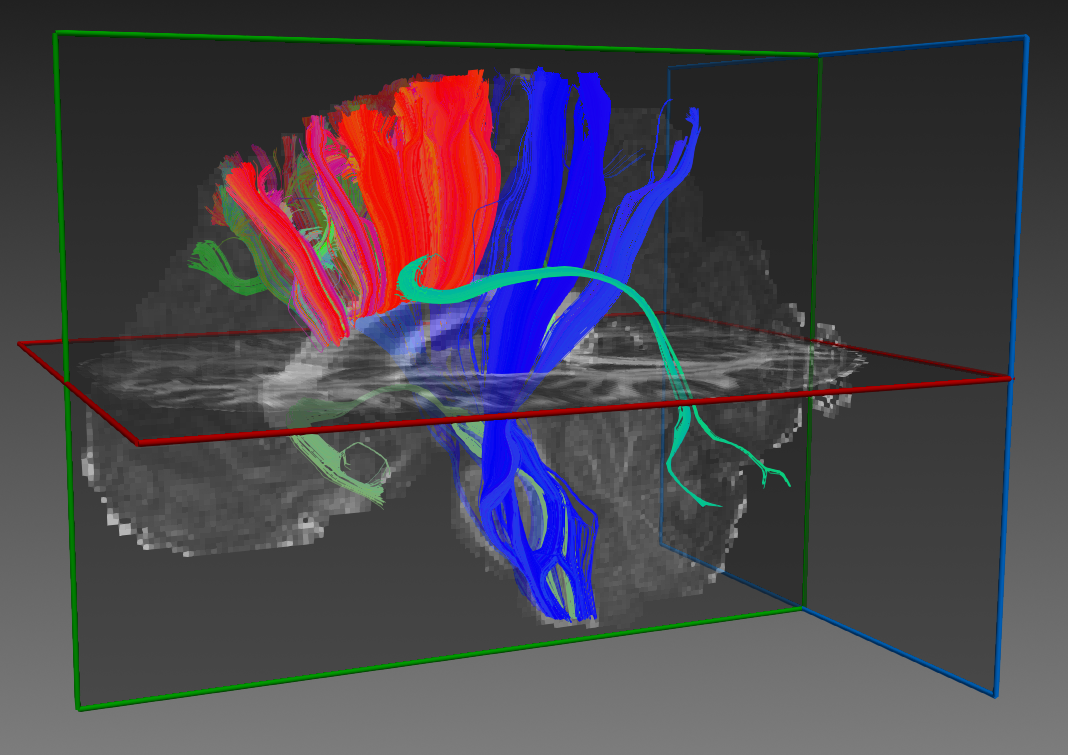
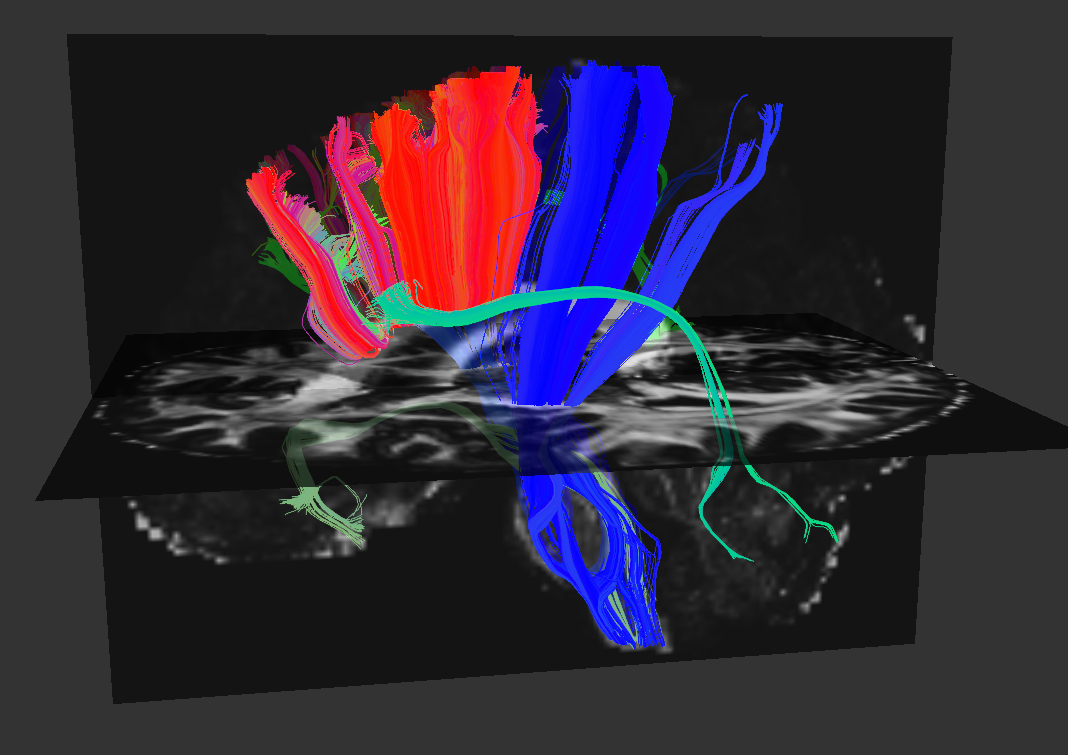
added QC mention and new script for figures generation

diff --git a/source/_static/scripts/generate_showcase_figure.py b/source/_static/scripts/generate_showcase_figure.py
@@ -1,0 +1,234 @@
+#!/usr/bin/env python3
+"""
+Render Showcase tractography figures using FURY.
+
+Reproduces:
+1. The hero whole-brain ensemble tractogram (`whole_brain.png`).
+2. The four tracking algorithm bundle figures (`DTI.png`, `EUDX.png`, `DET.png`, `prob.png`).
+
+Features:
+- Streamlines loaded from TRX (whole-brain and bundle groups).
+- Non-transparent streamlines (opacity=1.0) with endpoint-based orientation coloring.
+- Axial and mid-sagittal reference anatomy slices (FA) rendered with FURY slicers.
+- Programmatic camera configuration matching the oblique lateral view.
+- Clean offscreen rendering to PNG.
+
+Requirements:
+    pip install trx-python dipy fury nibabel numpy
+
+Usage:
+    python generate_showcase_figure.py in_trx in_img [--out_dir OUT_DIR] [--nb_streamlines NB]
+"""
+
+import argparse
+import logging
+import os
+import nibabel as nib
+import numpy as np
+
+from fury import actor, window
+from trx.trx_file_memmap import load
+
+logging.basicConfig(
+    level=logging.INFO,
+    format="%(asctime)s [%(levelname)s] %(message)s",
+    datefmt="%H:%M:%S",
+)
+
+CAMERA_CONFIG = {
+    "position": (-300, 38, 72),
+    "focal_point": (0, -16, 5),
+    "view_up": (0, 0, 1),
+}
+
+
+def create_base_scene(
+    fa_data: np.ndarray,
+    affine: np.ndarray,
+    z_slice: int = 55,
+    x_slice: int = 58,
+):
+    """Create a FURY scene with axial and mid-sagittal anatomical slices."""
+    axial_slicer = actor.slicer(fa_data, affine=affine, opacity=0.7)
+    axial_slicer.display(z=z_slice)
+
+    sagittal_slicer = actor.slicer(fa_data, affine=affine, opacity=0.6)
+    sagittal_slicer.display(x=x_slice)
+
+    scene = window.Scene()
+    scene.background((0.2, 0.2, 0.2))
+    scene.add(axial_slicer)
+    scene.add(sagittal_slicer)
+    scene.set_camera(**CAMERA_CONFIG)
+    return scene
+
+
+def render_whole_brain(
+    trx,
+    fa_data: np.ndarray,
+    affine: np.ndarray,
+    output_path: str,
+    nb_streamlines: int = 40000,
+    z_slice: int = 55,
+    x_slice: int = 58,
+    resolution: tuple = (1068, 755),
+):
+    """Render the whole-brain ensemble tractogram with opaque streamlines."""
+    logging.info("Preparing whole-brain tractogram...")
+    streamlines = [
+        s.astype(np.float32) for s in trx.streamlines[:nb_streamlines]
+    ]
+    logging.info(
+        "Rendering %d non-transparent streamlines (opacity=1.0)...",
+        len(streamlines),
+    )
+    streamlines_actor = actor.line(streamlines, opacity=1.0, linewidth=0.7)
+
+    scene = create_base_scene(fa_data, affine, z_slice=z_slice, x_slice=x_slice)
+    scene.add(streamlines_actor)
+
+    logging.info("Saving whole-brain snapshot to: %s", output_path)
+    window.snapshot(scene, fname=output_path, size=resolution, offscreen=True)
+
+
+def render_algo_bundles(
+    trx,
+    algo_code: int,
+    algo_name: str,
+    fa_data: np.ndarray,
+    affine: np.ndarray,
+    output_path: str,
+    z_slice: int = 55,
+    x_slice: int = 58,
+    resolution: tuple = (1068, 755),
+):
+    """Render bundle groups for a tracking algorithm using endpoint coloring."""
+    logging.info("Extracting %s bundle streamlines (algo code %d)...", algo_name, algo_code)
+
+    all_grp_indices = np.concatenate(
+        [trx.groups[k] for k in trx.groups.keys() if len(trx.groups[k]) > 0]
+    )
+    unique_grp_indices = np.unique(all_grp_indices)
+
+    algo = trx.data_per_streamline["algo"]
+    idx_algo = np.where(algo == algo_code)[0]
+    sub_indices = np.intersect1d(unique_grp_indices, idx_algo)
+
+    if len(sub_indices) == 0:
+        logging.warning("No bundle streamlines found for algo %d (%s).", algo_code, algo_name)
+        return
+
+    sub_trx = trx.select(sub_indices)
+    streamlines = [s.astype(np.float32) for s in sub_trx.streamlines]
+    logging.info(
+        "Rendering %d %s bundle streamlines (endpoint coloring, opacity=1.0)...",
+        len(streamlines),
+        algo_name,
+    )
+
+    # In FURY, colors=None automatically uses endpoint-based line_colors(streamlines)
+    streamlines_actor = actor.line(streamlines, opacity=1.0, linewidth=1.0)
+
+    scene = create_base_scene(fa_data, affine, z_slice=z_slice, x_slice=x_slice)
+    scene.add(streamlines_actor)
+
+    logging.info("Saving %s snapshot to: %s", algo_name, output_path)
+    window.snapshot(scene, fname=output_path, size=resolution, offscreen=True)
+
+
+def _build_arg_parser():
+    p = argparse.ArgumentParser(
+        description=__doc__,
+        formatter_class=argparse.RawTextHelpFormatter,
+    )
+    p.add_argument(
+        "in_trx",
+        help="Path to input TRX tractogram file (e.g. complete_tractogram.trx).",
+    )
+    p.add_argument(
+        "in_img",
+        help="Path to reference FA / anatomical NIfTI image (e.g. fa.nii.gz).",
+    )
+    p.add_argument(
+        "--out_dir",
+        default=".",
+        help="Directory to save generated PNG images [%(default)s].",
+    )
+    p.add_argument(
+        "--nb_streamlines",
+        type=int,
+        default=40000,
+        help="Number of streamlines to display for whole brain [%(default)s].",
+    )
+    p.add_argument(
+        "--z_slice",
+        type=int,
+        default=55,
+        help="Axial slice voxel index [%(default)s].",
+    )
+    p.add_argument(
+        "--x_slice",
+        type=int,
+        default=58,
+        help="Mid-sagittal slice voxel index [%(default)s].",
+    )
+    return p
+
+
+def main():
+    parser = _build_arg_parser()
+    args = parser.parse_args()
+
+    if not os.path.isfile(args.in_trx):
+        parser.error(f"Input TRX file not found: {args.in_trx}")
+    if not os.path.isfile(args.in_img):
+        parser.error(f"Input image file not found: {args.in_img}")
+
+    os.makedirs(args.out_dir, exist_ok=True)
+
+    logging.info("Loading reference anatomy from: %s", args.in_img)
+    img = nib.load(args.in_img)
+    fa_data = img.get_fdata()
+    affine = img.affine
+
+    logging.info("Loading tractogram from: %s", args.in_trx)
+    trx = load(args.in_trx)
+
+    # 1. Whole-brain hero figure
+    wb_out = os.path.join(args.out_dir, "whole_brain.png")
+    render_whole_brain(
+        trx,
+        fa_data,
+        affine,
+        wb_out,
+        nb_streamlines=args.nb_streamlines,
+        z_slice=args.z_slice,
+        x_slice=args.x_slice,
+    )
+
+    # 2. Four algorithm bundle figures (if groups and algo metadata are present)
+    if len(trx.groups) > 0 and "algo" in trx.data_per_streamline:
+        algos = [
+            (1, "DTI", "DTI.png"),
+            (2, "EuDX", "EUDX.png"),
+            (3, "Deterministic", "DET.png"),
+            (4, "Probabilistic", "prob.png"),
+        ]
+        for code, name, png_name in algos:
+            out_png = os.path.join(args.out_dir, png_name)
+            render_algo_bundles(
+                trx,
+                code,
+                name,
+                fa_data,
+                affine,
+                out_png,
+                z_slice=args.z_slice,
+                x_slice=args.x_slice,
+            )
+
+    logging.info("Showcase figures successfully generated!")
+
+
+if __name__ == "__main__":
+    main()

diff --git a/source/showcase.md b/source/showcase.md
@@ -57,6 +57,12 @@ CSD (DET), and Probabilistic Particle Filtering CSD (PROB).
 :::
 ::::
 
+The showcase figures (the whole-brain ensemble and the tracking algorithm
+bundles above) are rendered programmatically using FURY with axial and
+mid-sagittal reference slices. The figure generation script is available on
+[GitHub](https://github.com/tee-ar-ex/tee-ar-ex.github.io/blob/main/source/_static/scripts/generate_showcase_figure.py)
+in the `source/_static/scripts/` folder.
+
 Because tracking algorithm identifiers (`algo`) and Convex Optimization Modeling
 for Microstructure Informed Tractography (COMMIT) signal weights (`commit_weights`)
 {cite:p}`Daducci2014COMMIT` are stored in independent Data Per Streamline (DPS)
@@ -79,7 +85,8 @@ using sparse index sets stored in groups.
   `pip install trx-python dipy`
 - **Download Dataset**: The whole-brain demonstration file (`complete_tractogram.trx`)
   can be downloaded directly from [Google Drive](https://drive.google.com/drive/folders/1F8UmJRwXlMIyVJ0mbkKsFyiz5T63ZwfA?usp=sharing).
-- **Download Python Scripts**:
+- **Download Python Scripts** (also available in the repository on [GitHub](https://github.com/tee-ar-ex/tee-ar-ex.github.io/tree/main/source/_static/scripts)):
+  - {download}`generate_showcase_figure.py <_static/scripts/generate_showcase_figure.py>`: FURY figure rendering script with programmatic camera and dual anatomical slices.
   - {download}`showcase_filtering.py <_static/scripts/showcase_filtering.py>`: Metadata-driven filtering and group extraction.
   - {download}`showcase_concatenation.py <_static/scripts/showcase_concatenation.py>`: Tractogram concatenation and assembly strategies.
   - {download}`showcase_resizing.py <_static/scripts/showcase_resizing.py>`: Pre-allocated memory map buffer management and resizing.
@@ -112,6 +119,15 @@ arrays. In TRX, metadata is organized across independent binary arrays:
 Because these arrays are stored independently in the ZIP container, filtering
 queries can be evaluated directly on 1D NumPy arrays without touching the
 multi-gigabyte geometry array.
+
+This layout would also simplify quality control (QC) and outlier filtering.
+Users could store streamline quality scores or pass/fail flags in **DPS**
+(e.g., COMMIT {cite:p}`Daducci2014COMMIT` weights or TractOracle
+{cite:p}`Levesque2025TractOracle` scores), point-wise metrics in **DPV**, valid
+and rejected streamlines in separate **groups**, and bundle-level QC summaries
+in **DPG**.
+
+
 
 ### 1. Loading and inspecting tractogram metadata
 
